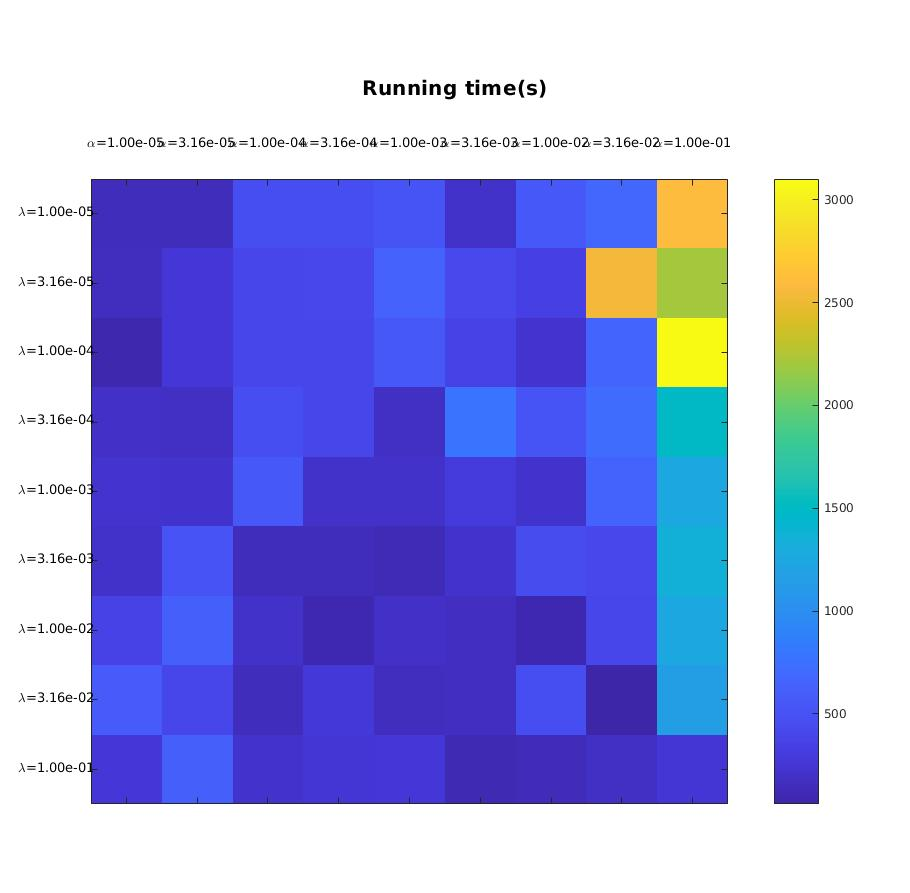
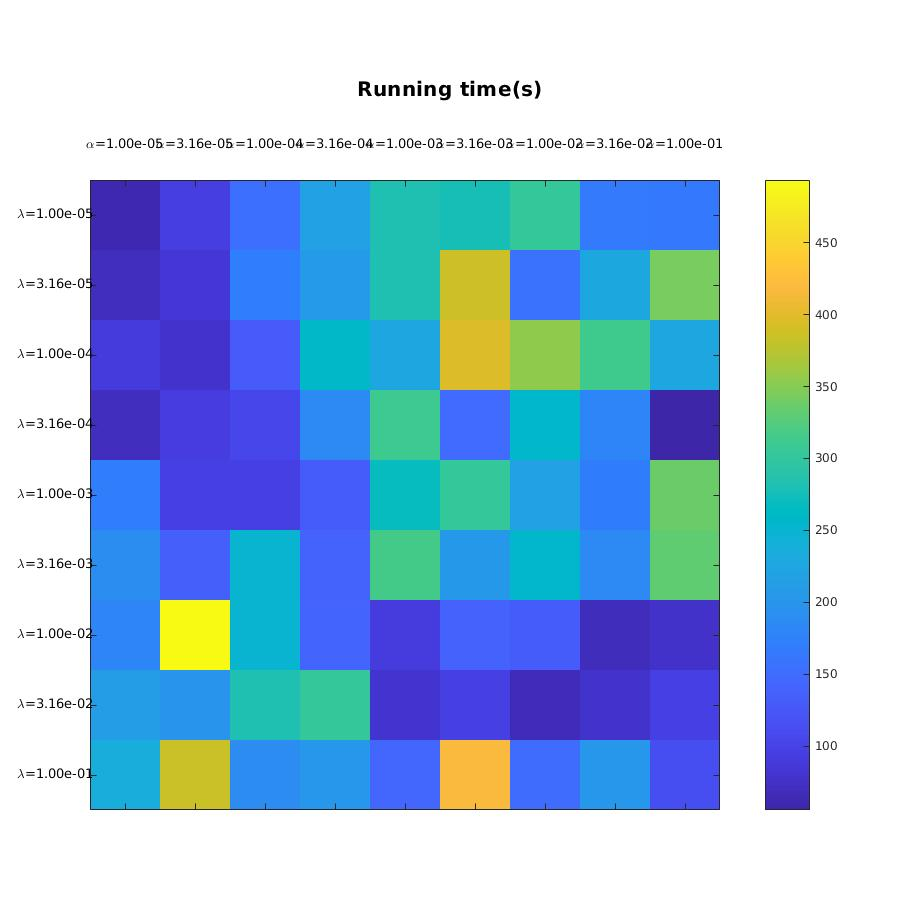
Change stopping criteria in FlexMF

diff --git a/demo.m b/demo.m
@@ -31,7 +31,7 @@ X = X/nuc_norm*size(X,1);
 K = 5;
 L = 50;
 lambda = 1e-4;
-alpha = 1e-3;
+alpha = 1e-1;
 lambdaL1H = 0;
 lambdaL1W = .1;
 shg; clf
@@ -45,6 +45,7 @@ set(gcf,'position',[200,200,1200,900])
 figure;
 plot(cost(2:end))
 title('Reconstruction Error')
+score = helper.similarity(W, H, W_hat, H_hat);
 
 %% Procedure for choosing lambda
 nLambdas = 9; % increase if you're patient
@@ -57,22 +58,28 @@ loadings = zeros(nLambdas, nAlphas, K);
 regularization = zeros(nLambdas, nAlphas);
 costs = zeros(nLambdas, nAlphas); 
 times = zeros(nLambdas, nAlphas); 
+scores = zeros(nLambdas, nAlphas); 
+W_hats = cell(nLambdas, nAlphas);
+H_hats = cell(nLambdas, nAlphas);
 
 for li = 1:length(lambdas)
     for ai = 1:length(alphas)
         tic
-        [W, H, ~,loadings(li,ai,:),power]= FlexMF(X,'K',K,'L',L, 'maxiter', 50,...
+        [W_hat, H_hat, ~,loadings(li,ai,:),power]= FlexMF(X,'K',K,'L',L, 'maxiter', 50,...
             'lambdaL1W', .1, 'lambda', lambdas(li), 'alpha', alphas(ai), 'showPlot', 0); 
 
-        [costs(li,ai),regularization(li,ai),~] = helper.get_FlexMF_cost(X,W,H);
+        [costs(li,ai),regularization(li,ai),~] = helper.get_FlexMF_cost(X,W_hat,H_hat);
         display(['Testing lambda ' num2str(li) '/' num2str(length(lambdas))])
         display(['Testing alpha ' num2str(ai) '/' num2str(length(alphas))])
         time = toc
         times(li,ai) = time;
+        W_hats{li,ai} = W_hat;
+        H_hats{li,ai} = H_hat;
+        scores(li,ai) = helper.similarity(W, H, W_hat, H_hat);
     end
 end
 save('choose_lambda.mat', 'costs', 'regularization', 'times', 'loadings',...
-    'lambdas', 'alphas')
+    'lambdas', 'alphas', 'W_hats', 'H_hats', 'scores')
 %% plot costs as a function of lambda
 load choose_lambda.mat;
 nLambdas = length(lambdas); 
@@ -161,7 +168,7 @@ for ai = 1:nAlphas
         'HorizontalAlignment', 'center', 'VerticalAlignment', 'middle', 'EdgeColor', 'none')
 end
 
-% Plot running times
+%% Plot running times and scores
 figure;
 set(gcf,'position',[200,200,900,900])
 imagesc(times)
@@ -180,6 +187,26 @@ for ai = 1:nAlphas
         'HorizontalAlignment', 'center', 'VerticalAlignment', 'middle', 'EdgeColor', 'none')
 end
 annotation('textbox',[0.1 0.85 0.8 0.1],'String', 'Running time(s)', 'FontSize', 16, 'FontWeight', 'bold',...
+        'HorizontalAlignment', 'center', 'VerticalAlignment', 'middle', 'EdgeColor', 'none')
+    
+figure;
+set(gcf,'position',[200,200,900,900])
+imagesc(scores)
+set(gca, 'Position', [0.1 0.1 0.7 0.7], 'XTickLabel', [], 'YTickLabel', []);
+colorbar('Position', [0.85 0.1 0.05 0.7]);
+dim_Lambdas = [0.1-0.7/nAlphas*ones(nLambdas,1), 0.1+(nLambdas-1:-1:0)'*0.7/nLambdas,... 
+    0.7/nAlphas*ones(nLambdas,1), 0.7/nLambdas*ones(nLambdas,1)];
+dim_Alphas = [0.1+(0:nAlphas-1)'*0.7/nAlphas, 0.8*ones(nAlphas,1),...
+    0.7/nAlphas*ones(nLambdas,1), 0.7/nLambdas*ones(nLambdas,1)];
+for li = 1:nLambdas
+    annotation('textbox',dim_Lambdas(li,:),'String',sprintf('\\lambda=%0.2e',lambdas(li)),...
+        'HorizontalAlignment', 'center', 'VerticalAlignment', 'middle', 'EdgeColor', 'none')
+end
+for ai = 1:nAlphas
+    annotation('textbox',dim_Alphas(ai,:),'String',sprintf('\\alpha=%0.2e',alphas(ai)),...
+        'HorizontalAlignment', 'center', 'VerticalAlignment', 'middle', 'EdgeColor', 'none')
+end
+annotation('textbox',[0.1 0.85 0.8 0.1],'String', 'Similarity score', 'FontSize', 16, 'FontWeight', 'bold',...
         'HorizontalAlignment', 'center', 'VerticalAlignment', 'middle', 'EdgeColor', 'none')
 
 %% Look at factors

diff --git a/FlexMF.m b/FlexMF.m
@@ -95,8 +95,14 @@ cost = zeros(params.maxiter+1, 1);
 cost(1) = sqrt(mean((X(:)-Xhat(:)).^2));
 
 for iter = 1 : params.maxiter
+    fprintf('Iter %d\n', iter);
+    if iter > 5
+        dcost = cost(iter) - mean(cost((iter-5):(iter-1)));
+        fprintf('dcost=%f\n', dcost);
+    end
     % Stopping criteria... Stop if reach maxiter or if change in cost function is less than the tolerance
-    if (iter == params.maxiter) || ((iter>5) && (dW < params.tolerance))
+    % if (iter == params.maxiter) || ((iter>5) && (dW < params.tolerance))
+    if (iter == params.maxiter) || ((iter>5) && (abs(dcost) < params.tolerance))
         cost = cost(1 : iter+1);  % trim vector
         lasttime = 1; 
 %         if iter>1
@@ -105,7 +111,6 @@ for iter = 1 : params.maxiter
     end
     
 %     tic
-    fprintf('Iter %d\n', iter);
     
     fprintf('Updating W\n');
 %     W0 = max(W_pre(:))*rand(N, K, L);
@@ -138,8 +143,8 @@ for iter = 1 : params.maxiter
     mask = find(params.M == 0); % find masked (held-out) indices 
     X(mask) = Xhat(mask); % replace data at masked elements with reconstruction, so masked datapoints do not effect fit
     cost(iter+1) = sqrt(mean((X(:)-Xhat(:)).^2));
-    dW = sqrt(mean((W(:)-W_pre(:)).^2));
-    fprintf('dW=%f\n', dW);
+%     dW = sqrt(mean((W(:)-W_pre(:)).^2));
+%     fprintf('dW=%f\n', dW);
     
     % Plot to show progress
     if params.showPlot 
